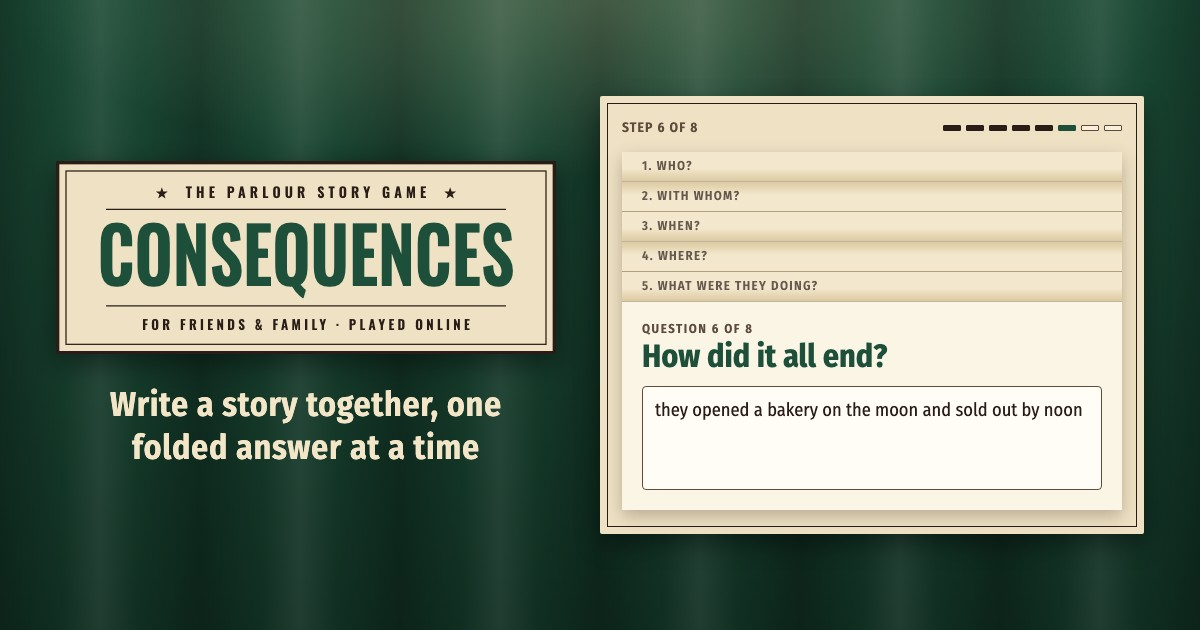
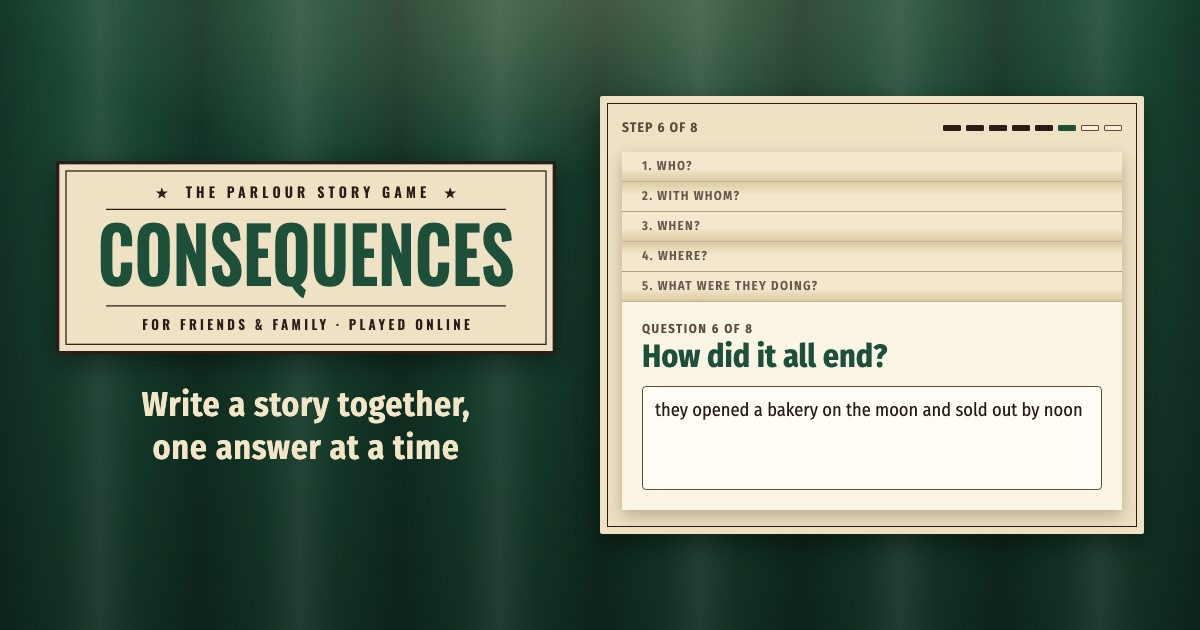
Consequences: away from the folding metaphor in every text
The owner's call: no «ответ загнут» anywhere. The hint after an answer
says it is saved, the landing page's rule and subtitle, the closed
sheet's «Нажмите, чтобы открыть», the link preview card and picture,
the description for search engines, the manifest, llms.txt and the
READMEs speak of answers nobody sees instead. The keys follow the texts
(answerSaved, tapToOpen). The drawing of the sheet stays.

A sheet title that takes two lines splits them evenly, so a star never
stays alone on the second.

Changed region(s): [[0.0925, 0.6032, 0.4317, 0.754]]

diff --git a/games/consequences/public/index.html b/games/consequences/public/index.html
@@ -4,7 +4,7 @@
     <meta charset="UTF-8">
     <meta name="viewport" content="width=device-width, initial-scale=1.0">
     <title data-i18n="title">Consequences</title>
-    <meta name="description" content="The folded-paper story game, for friends and family">
+    <meta name="description" content="The classic parlour story game, for friends and family">
     <meta name="theme-color" content="#1b4a36">
     <link rel="icon" href="/favicon.ico" type="image/x-icon">
     <!-- The installed app: its manifest, the iPhone's home-screen name and icon -->
@@ -24,18 +24,18 @@
     <meta property="og:site_name" content="Consequences">
     <meta property="og:locale" content="en_US">
     <meta property="og:url" content="https://story.escapist.club/">
-    <meta property="og:title" content="Consequences · the folded-paper story game for friends">
-    <meta property="og:description" content="Play the classic parlour game remotely: everyone answers the same question, folds the answer away and passes the sheet on; at the end the stories are read out. Free, on a phone or a computer, no account.">
+    <meta property="og:title" content="Consequences · the parlour story game for friends">
+    <meta property="og:description" content="Play the classic parlour game remotely: everyone answers the same question without seeing the answers before it and passes the sheet on; at the end the stories are read out. Free, on a phone or a computer, no account.">
     <meta property="og:image" content="https://story.escapist.club/img/og-image.jpg">
     <meta property="og:image:type" content="image/jpeg">
     <meta property="og:image:width" content="1200">
     <meta property="og:image:height" content="630">
-    <meta property="og:image:alt" content="Consequences sign on a theatre curtain, and a sheet folded like an accordion: five answers folded away and the sixth question, How did it all end?, being answered.">
+    <meta property="og:image:alt" content="Consequences sign on a theatre curtain, and a sheet in the middle of a round: five questions answered and the sixth, How did it all end?, being answered.">
     <meta name="twitter:card" content="summary_large_image">
-    <meta name="twitter:title" content="Consequences · the folded-paper story game for friends">
-    <meta name="twitter:description" content="Play the classic parlour game remotely: everyone answers the same question, folds the answer away and passes the sheet on; at the end the stories are read out. Free, on a phone or a computer, no account.">
+    <meta name="twitter:title" content="Consequences · the parlour story game for friends">
+    <meta name="twitter:description" content="Play the classic parlour game remotely: everyone answers the same question without seeing the answers before it and passes the sheet on; at the end the stories are read out. Free, on a phone or a computer, no account.">
     <meta name="twitter:image" content="https://story.escapist.club/img/og-image.jpg">
-    <meta name="twitter:image:alt" content="Consequences sign on a theatre curtain, and a sheet folded like an accordion: five answers folded away and the sixth question, How did it all end?, being answered.">
+    <meta name="twitter:image:alt" content="Consequences sign on a theatre curtain, and a sheet in the middle of a round: five questions answered and the sixth, How did it all end?, being answered.">
 
     <!-- The game described for search engines. A data block: the browser never
          runs it, so the Content Security Policy has nothing to block -->
@@ -46,7 +46,7 @@
       "name": "Consequences",
       "alternateName": "Чепуха",
       "url": "https://story.escapist.club/",
-      "description": "The classic folded-paper story game, played remotely: players join a room by its code, answer eight questions on sheets that move round the table with every answer folded away, then read the stories out.",
+      "description": "The classic parlour story game, played remotely: players join a room by its code, answer eight questions on sheets that move round the table, nobody seeing the answers before theirs, then read the stories out.",
       "applicationCategory": "GameApplication",
       "applicationSubCategory": "Party Game",
       "operatingSystem": "Any (web browser)",
@@ -57,14 +57,14 @@
       "author": { "@type": "Person", "name": "Mikhail E" },
       "featureList": [
         "Rooms joined by a six-character code or a link",
-        "Eight questions, every answer folded away before the sheet moves on",
+        "Eight questions; nobody sees the answers before theirs",
         "Stories read out at the end, then shown to everyone",
         "Players away are waited for, or answered for",
         "Phones and computers, English and Russian",
         "Installable PWA"
       ],
       "screenshot": "https://story.escapist.club/img/og-image.jpg",
-      "keywords": "consequences, folded paper game, story game, party game, online game with friends"
+      "keywords": "consequences, parlour game, story game, party game, online game with friends"
     }
     </script>
 
@@ -107,7 +107,7 @@
                     <text class="brand-sign__small" x="302" y="203" text-anchor="middle" font-size="16" letter-spacing="4" fill="#2a1d17">FOR FRIENDS &amp; FAMILY · PLAYED ONLINE</text>
                 </svg>
             </h1>
-            <p class="tagline" data-i18n="subtitle">The classic folded-paper story game, for friends and family</p>
+            <p class="tagline" data-i18n="subtitle">The classic parlour story game, for friends and family</p>
         </header>
 
         <div class="game-card">
@@ -188,7 +188,7 @@
         <div class="game-card">
             <h5 class="sheet-title" data-i18n="howToPlay">How to Play</h5>
             <ol>
-                <li data-i18n="rule1">Everyone answers the same question on their own sheet, folds the answer away and passes the sheet on</li>
+                <li data-i18n="rule1">Everyone answers the same question on their own sheet and passes the sheet on: nobody sees what was written before</li>
                 <li data-i18n="rule2">Eight questions: who, with whom, when, where, what they were doing, how it ended, what people said, the moral</li>
                 <li data-i18n="rule3">At the end everyone reads out the story that came to them</li>
             </ol>

diff --git a/games/consequences/public/js/translations.js b/games/consequences/public/js/translations.js
@@ -8,9 +8,9 @@ const translations = {
     en: {
         // The landing page
         title: "Consequences",
-        subtitle: "The classic folded-paper story game, for friends and family",
+        subtitle: "The classic parlour story game, for friends and family",
         howToPlay: "How to Play",
-        rule1: "Everyone answers the same question on their own sheet, folds the answer away and passes the sheet on",
+        rule1: "Everyone answers the same question on their own sheet and passes the sheet on: nobody sees what was written before",
         rule2: "Eight questions: who, with whom, when, where, what they were doing, how it ended, what people said, the moral",
         rule3: "At the end everyone reads out the story that came to them",
 
@@ -36,7 +36,7 @@ const translations = {
         yourAnswer: "Your answer",
         saveAndPass: "Save and pass on →",
         answerKeys: "Enter to send · Shift + Enter for a new line",
-        answerFolded: "Your answer is folded away. The sheet goes on to your neighbour, {name}, when everyone has answered.",
+        answerSaved: "Your answer is saved. The sheet goes on to your neighbour, {name}, when everyone has answered.",
         answeredForYou: "{name} is answering for you on this step: you answer from the next one.",
         sheetOfPlayer: "{name}'s sheet",
         giveSheetBack: "Give the sheet back",
@@ -52,7 +52,7 @@ const translations = {
         // Reading: the sheets, every story
         storiesReady: "The stories are ready",
         readAloud: "Read out the sheet that came to you",
-        tapToUnfold: "Tap to unfold",
+        tapToOpen: "Tap to open",
         yourSheet: "Your sheet",
         othersWillSee: "Everyone sees every story once all the sheets are open",
         openedCount: "{opened} of {count} sheets open",
@@ -75,9 +75,9 @@ const translations = {
     ru: {
         // The landing page
         title: "Чепуха",
-        subtitle: "«Чепуха» — классическая игра на сложенных листах, для друзей и семьи",
+        subtitle: "«Чепуха» — классическая салонная игра в истории, для друзей и семьи",
         howToPlay: "Как играть",
-        rule1: "Все отвечают на один вопрос — каждый на своём листе, — загибают ответ и передают лист дальше",
+        rule1: "Все отвечают на один вопрос — каждый на своём листе — и передают лист дальше: прежних ответов никто не видит",
         rule2: "Восемь вопросов: кто, с кем, когда, где, что делали, чем всё закончилось, что сказали люди, какая мораль",
         rule3: "В конце каждый читает вслух историю, которая к нему пришла",
 
@@ -103,7 +103,7 @@ const translations = {
         yourAnswer: "Ваш ответ",
         saveAndPass: "Сохранить и передать →",
         answerKeys: "Enter — отправить · Shift + Enter — новая строка",
-        answerFolded: "Ответ загнут. Лист уйдёт к соседу ({name}), когда ответят все.",
+        answerSaved: "Ответ сохранён. Лист уйдёт к соседу ({name}), когда ответят все.",
         answeredForYou: "На этом шаге за вас отвечает {name}, вы ответите со следующего.",
         sheetOfPlayer: "Лист игрока {name}",
         giveSheetBack: "Вернуть лист",
@@ -119,7 +119,7 @@ const translations = {
         // Reading: the sheets, every story
         storiesReady: "Истории готовы",
         readAloud: "Прочитайте вслух лист, который пришёл к вам",
-        tapToUnfold: "Нажмите, чтобы развернуть",
+        tapToOpen: "Нажмите, чтобы открыть",
         yourSheet: "Ваш лист",
         othersWillSee: "Все истории увидят все, когда откроются все листы",
         openedCount: "Открыто листов: {opened} из {count}",

diff --git a/games/consequences/public/game.html b/games/consequences/public/game.html
@@ -25,18 +25,18 @@
     <meta property="og:type" content="website">
     <meta property="og:site_name" content="Consequences">
     <meta property="og:locale" content="en_US">
-    <meta property="og:title" content="Consequences · the folded-paper story game for friends">
-    <meta property="og:description" content="Play the classic parlour game remotely: everyone answers the same question, folds the answer away and passes the sheet on; at the end the stories are read out. Free, on a phone or a computer, no account.">
+    <meta property="og:title" content="Consequences · the parlour story game for friends">
+    <meta property="og:description" content="Play the classic parlour game remotely: everyone answers the same question without seeing the answers before it and passes the sheet on; at the end the stories are read out. Free, on a phone or a computer, no account.">
     <meta property="og:image" content="https://story.escapist.club/img/og-image.jpg">
     <meta property="og:image:type" content="image/jpeg">
     <meta property="og:image:width" content="1200">
     <meta property="og:image:height" content="630">
-    <meta property="og:image:alt" content="Consequences sign on a theatre curtain, and a sheet folded like an accordion: five answers folded away and the sixth question, How did it all end?, being answered.">
+    <meta property="og:image:alt" content="Consequences sign on a theatre curtain, and a sheet in the middle of a round: five questions answered and the sixth, How did it all end?, being answered.">
     <meta name="twitter:card" content="summary_large_image">
-    <meta name="twitter:title" content="Consequences · the folded-paper story game for friends">
-    <meta name="twitter:description" content="Play the classic parlour game remotely: everyone answers the same question, folds the answer away and passes the sheet on; at the end the stories are read out. Free, on a phone or a computer, no account.">
+    <meta name="twitter:title" content="Consequences · the parlour story game for friends">
+    <meta name="twitter:description" content="Play the classic parlour game remotely: everyone answers the same question without seeing the answers before it and passes the sheet on; at the end the stories are read out. Free, on a phone or a computer, no account.">
     <meta name="twitter:image" content="https://story.escapist.club/img/og-image.jpg">
-    <meta name="twitter:image:alt" content="Consequences sign on a theatre curtain, and a sheet folded like an accordion: five answers folded away and the sixth question, How did it all end?, being answered.">
+    <meta name="twitter:image:alt" content="Consequences sign on a theatre curtain, and a sheet in the middle of a round: five questions answered and the sixth, How did it all end?, being answered.">
 
     <!-- The sign's font, fetched before the stylesheet asks for it -->
     <link rel="preload" href="/kit/fonts/oswald-latin-600-normal.woff2" as="font" type="font/woff2" crossorigin>

diff --git a/games/consequences/tests/e2e/language.spec.js b/games/consequences/tests/e2e/language.spec.js
@@ -46,12 +46,12 @@ test('the switch draws the reading and every story again in the other language',
     const [anna, boris] = await russianAndEnglish(newPlayer);
     await startRound([anna, boris]);
     await writeToReading([anna, boris]);
-    await expect(anna.page.locator('#readingCard')).toContainText(text('tapToUnfold', 'ru'));
+    await expect(anna.page.locator('#readingCard')).toContainText(text('tapToOpen', 'ru'));
 
     await anna.page.locator('.lang-toggle-btn').click();
 
     await expect(anna.page.locator('#readingCard .sheet-title')).toHaveText(text('storiesReady', 'en'));
-    await expect(anna.page.locator('#readingCard .closed-sheet')).toContainText(text('tapToUnfold', 'en'));
+    await expect(anna.page.locator('#readingCard .closed-sheet')).toContainText(text('tapToOpen', 'en'));
     await expect(anna.page.locator('#readingCard .opened-count')).toHaveText(text('openedCount', 'en', { opened: 0, count: 2 }));
     await expect(seatRow(anna.page, 'Boris')).toContainText(text('statusClosed', 'en'));
     await anna.page.locator('#readingCard .closed-sheet').click();

diff --git a/games/consequences/public/js/game-room.js b/games/consequences/public/js/game-room.js
@@ -233,7 +233,7 @@ function waitingHint(round, mine) {
     if (answeredForMe && answeredForMe.step === round.step) return say('answeredForYou', { name: answeredForMe.name });
     const index = round.seats.indexOf(mine);
     const next = round.seats[(index + 1) % round.seats.length];
-    return say('answerFolded', { name: next.name });
+    return say('answerSaved', { name: next.name });
 }
 
 // The answer's characters as a person counts them (an emoji is one)
@@ -310,7 +310,7 @@ function closedSheet(onOpen) {
     const packet = element('span', 'packet');
     packet.setAttribute('aria-hidden', 'true');
     for (let pleat = 0; pleat < 5; pleat++) packet.append(element('span'));
-    sheet.append(packet, element('span', 'closed-sheet__label', say('tapToUnfold')));
+    sheet.append(packet, element('span', 'closed-sheet__label', say('tapToOpen')));
     return sheet;
 }
 

diff --git a/games/consequences/tests/e2e/writing.spec.js b/games/consequences/tests/e2e/writing.spec.js
@@ -67,7 +67,7 @@ test('a sent answer is folded away: the field closes, and the player sees who is
     await answer(anna, 'A pirate grandmother');
 
     await expect(anna.page.locator('#answerForm')).toBeHidden();
-    await expect(anna.page.locator('#sheetHint')).toHaveText(text('answerFolded', 'en', { name: 'Boris' }));
+    await expect(anna.page.locator('#sheetHint')).toHaveText(text('answerSaved', 'en', { name: 'Boris' }));
     await expect(anna.page.locator('#folds .fold')).toHaveCount(1);
     await expect(seatRow(anna.page, 'Anna')).toContainText(text('statusDone'));
     await expect(seatRow(anna.page, 'Boris')).toContainText(text('statusWriting'));

diff --git a/games/consequences/tests/e2e/reading.spec.js b/games/consequences/tests/e2e/reading.spec.js
@@ -56,7 +56,7 @@ test("a tapped sheet opens: eight answers, each under its question in the reader
     await startRound(players);
     await writeToReading(players);
     await expect(anna.page.locator('#readingCard .opened-count')).toHaveText(text('openedCount', 'ru', { opened: 0, count: 3 }));
-    await expect(ownSheet(anna.page).locator('.closed-sheet')).toContainText(text('tapToUnfold', 'ru'));
+    await expect(ownSheet(anna.page).locator('.closed-sheet')).toContainText(text('tapToOpen', 'ru'));
     // The writing's New round is there in the reading too
     await expect(anna.page.locator('#newRound')).toBeVisible();
 

diff --git a/games/consequences/scripts/og-image.html b/games/consequences/scripts/og-image.html
@@ -38,9 +38,9 @@
 <body>
   <div class="title">
     <div class="sign-slot"></div>
-    <p>Write a story together, one folded answer at a time</p>
+    <p>Write a story together, one answer at a time</p>
   </div>
-  <!-- The writing, as on the room page: step 6 of 8, five answers folded away -->
+  <!-- The writing, as on the room page: step 6 of 8, five questions answered -->
   <div class="game-card">
     <div class="step-line">
       <span>Step 6 of 8</span>

diff --git a/games/consequences/public/css/style.css b/games/consequences/public/css/style.css
@@ -193,6 +193,12 @@
   background: linear-gradient(to bottom, var(--fold-dark) 0%, var(--fold-light) 45%, var(--fold-light) 100%);
 }
 
+/* A title that takes two lines splits them evenly, so a star never stays
+   alone on the second («★ Историю / рассказывают ★») */
+.sheet-title {
+  text-wrap: balance;
+}
+
 /* The table: who writes or reads, who is away, who is done */
 .seat-list {
   margin: 0;

diff --git a/games/consequences/docs/publishing.md b/games/consequences/docs/publishing.md
@@ -32,7 +32,7 @@
 
 ## Как переснять картинку
 
-Исходник — `scripts/og-image.html`. Он лежит вне `public/`, поэтому сайт его не отдаёт, и подключает настоящие стили — `playbill.css` ядра и `style.css` игры — и Bootstrap: лист собран из тех же классов, что на странице комнаты. Композиция (вариант A, выбор владельца) — занавес, слева вывеска и строка «Write a story together, one folded answer at a time», справа лист посреди раунда: шаг 6 из 8, пять ответов загнуты, вопрос «How did it all end?» и ответ, который пишут. Вывеску в исходник не копируют: команда перед снимком вставляет ту, что в `public/index.html` (копия разошлась бы с рисунком на сайте). Поменялся вид игры — картинку достаточно переснять:
+Исходник — `scripts/og-image.html`. Он лежит вне `public/`, поэтому сайт его не отдаёт, и подключает настоящие стили — `playbill.css` ядра и `style.css` игры — и Bootstrap: лист собран из тех же классов, что на странице комнаты. Композиция (вариант A, выбор владельца) — занавес, слева вывеска и строка «Write a story together, one answer at a time», справа лист посреди раунда: шаг 6 из 8, пять вопросов позади, вопрос «How did it all end?» и ответ, который пишут. Вывеску в исходник не копируют: команда перед снимком вставляет ту, что в `public/index.html` (копия разошлась бы с рисунком на сайте). Поменялся вид игры — картинку достаточно переснять:
 
 ```bash
 npm run og-image    # из папки игры (команда ядра room-kit-og-image): снимок 1200×630 → куда указывает og:image главной, public/img/og-image.jpg

diff --git a/games/consequences/CLAUDE.md b/games/consequences/CLAUDE.md
@@ -6,7 +6,7 @@ The game is built on the shared kit, `packages/room-kit/`; the kit's rules hold 
 @../../packages/room-kit/CLAUDE.md
 
 ## Project Overview
-Web application to play Consequences, the folded-paper story game, remotely with friends and family. Players join a room by a 6-character code; in a round every player answers the same question on the sheet in front of them, the answer is folded away and the sheets move on, eight questions in all (Who? / With whom? / When? / Where? / What were they doing? / How did it all end? / What did people say? / What is the moral?); at the end each player reads out the story that came to them. Adaptive UI works on desktop and mobile browsers.
+Web application to play Consequences, the parlour story game, remotely with friends and family. Players join a room by a 6-character code; in a round every player answers the same question on the sheet in front of them, nobody sees the answers before theirs and the sheets move on, eight questions in all (Who? / With whom? / When? / Where? / What were they doing? / How did it all end? / What did people say? / What is the moral?); at the end each player reads out the story that came to them. Adaptive UI works on desktop and mobile browsers.
 
 - **Production:** https://story.escapist.club/ (Cloudflare Workers, free plan), from the first release (root `docs/release.md`)
 - **Repository:** https://github.com/mikhail-e/parlour-games, folder `games/consequences/` — public, a showcase (root CLAUDE.md, Decisions)

diff --git a/README.md b/README.md
@@ -14,9 +14,9 @@ The classic guessing party game: every player gets a secret character chosen by 
 
 ### Consequences
 
-![The sign and the round: a sheet folded like an accordion, five answers folded away and the sixth question being answered](games/consequences/public/img/og-image.jpg)
+![The sign and the round: a sheet in the middle of a round, five questions answered and the sixth being answered](games/consequences/public/img/og-image.jpg)
 
-The folded-paper story game: every player answers the same question on their sheet — who, with whom, when, where, what they were doing, how it ended, what people said, the moral — folds the answer away and passes the sheet on; at the end everyone reads out the story that came to them.
+The parlour story game: every player answers the same question on their sheet — who, with whom, when, where, what they were doing, how it ended, what people said, the moral — and passes the sheet on, nobody seeing the answers before; at the end everyone reads out the story that came to them.
 
 **Play:** https://story.escapist.club/ · **Code:** [`games/consequences/`](games/consequences/README.md)
 
